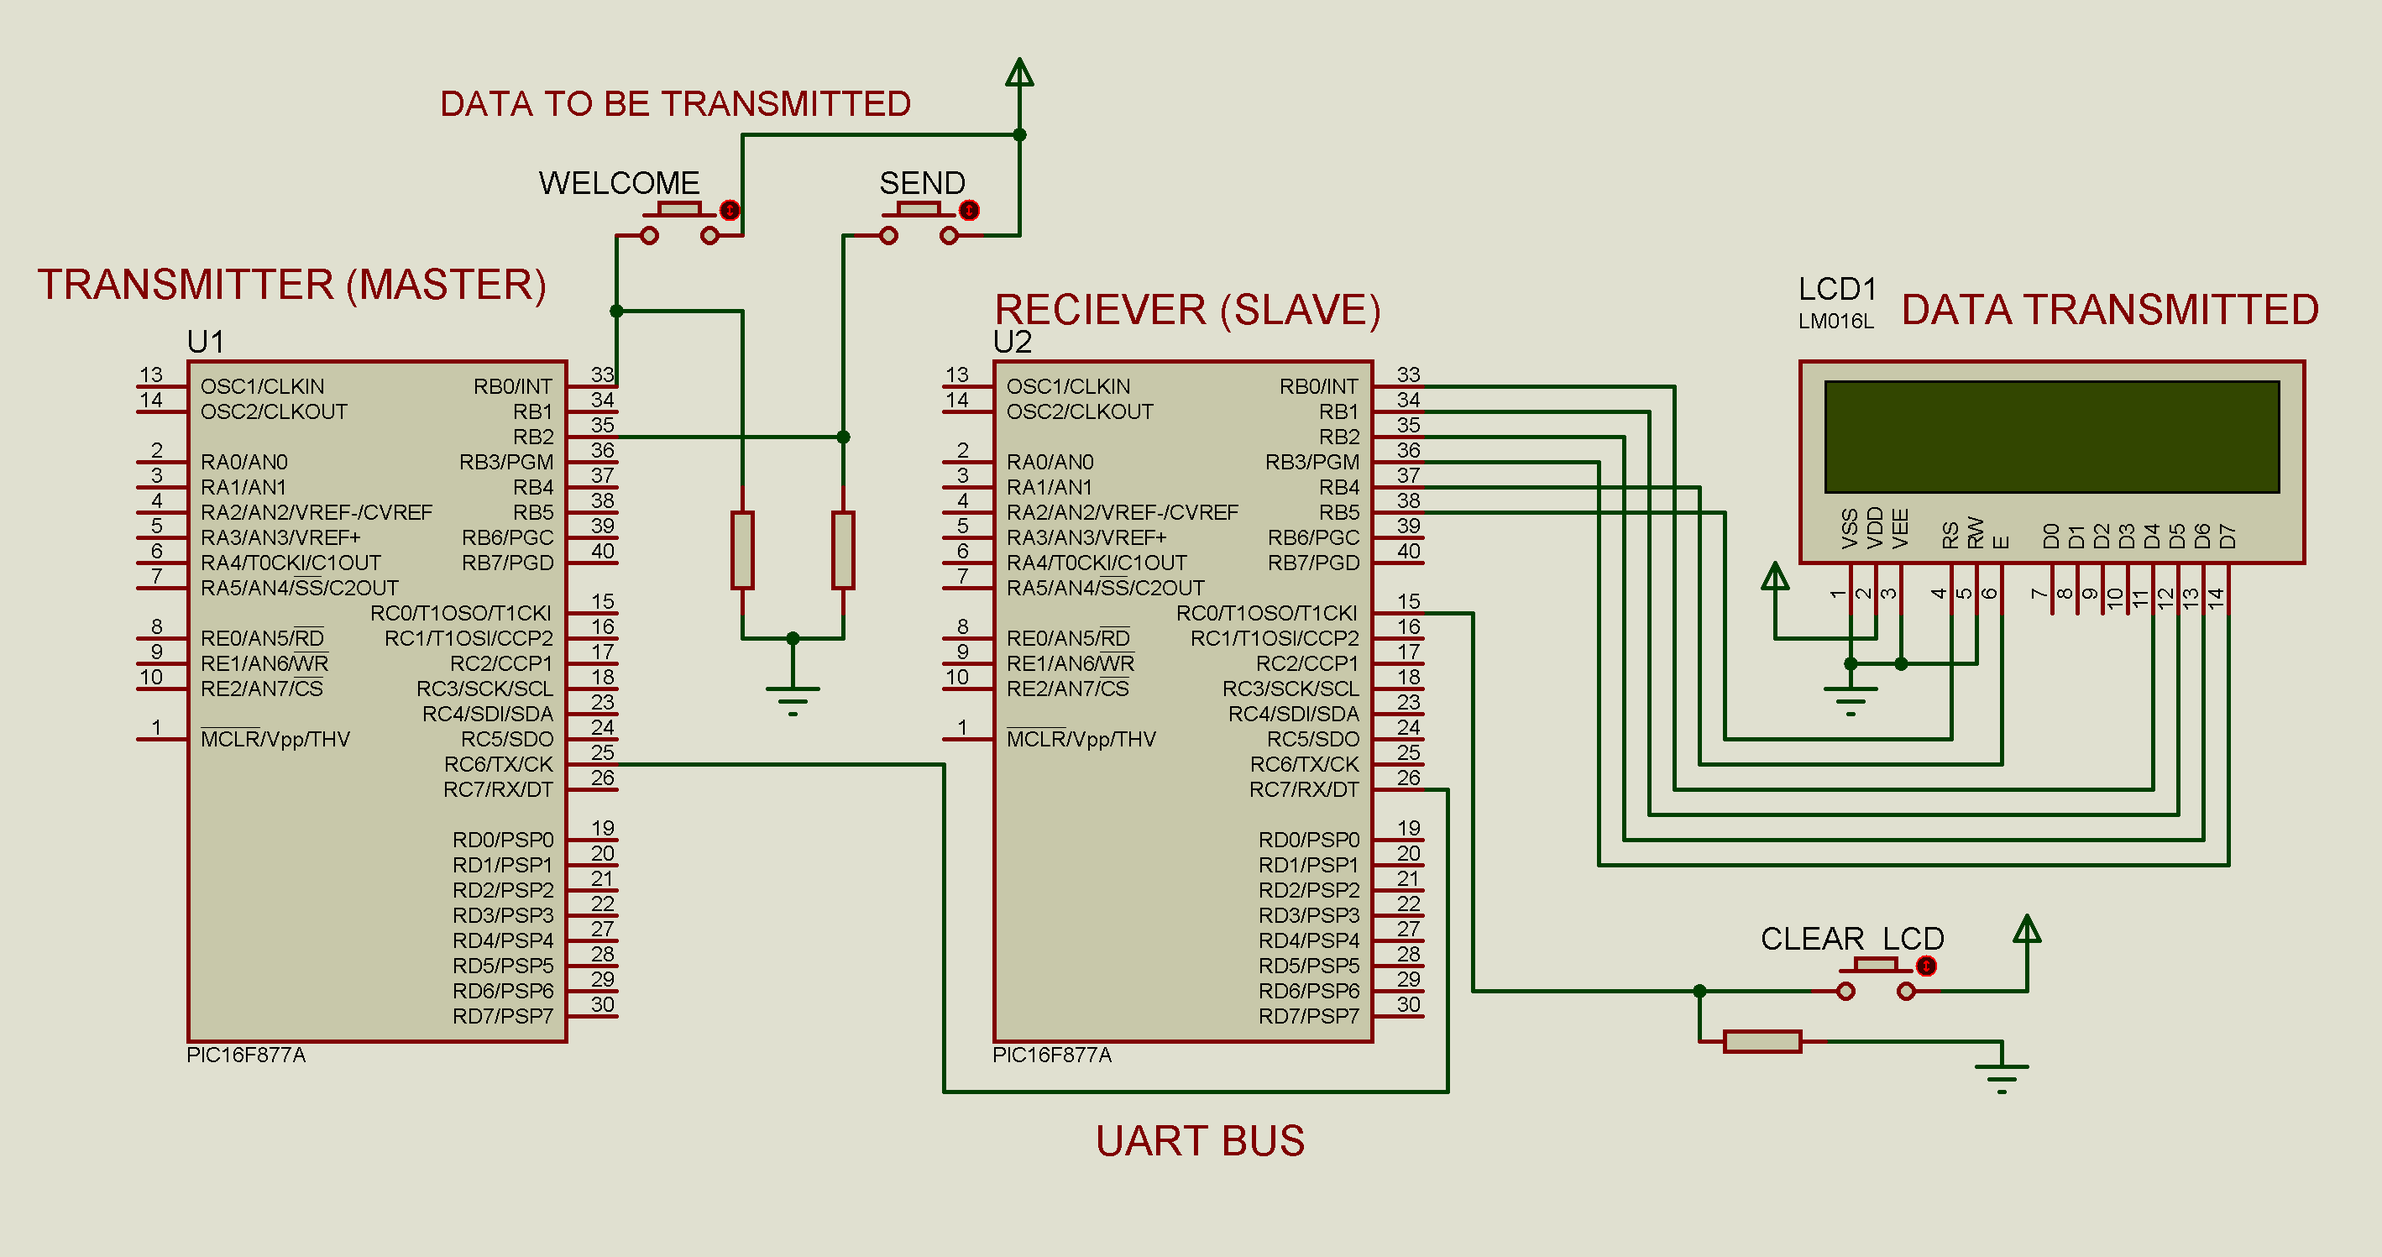
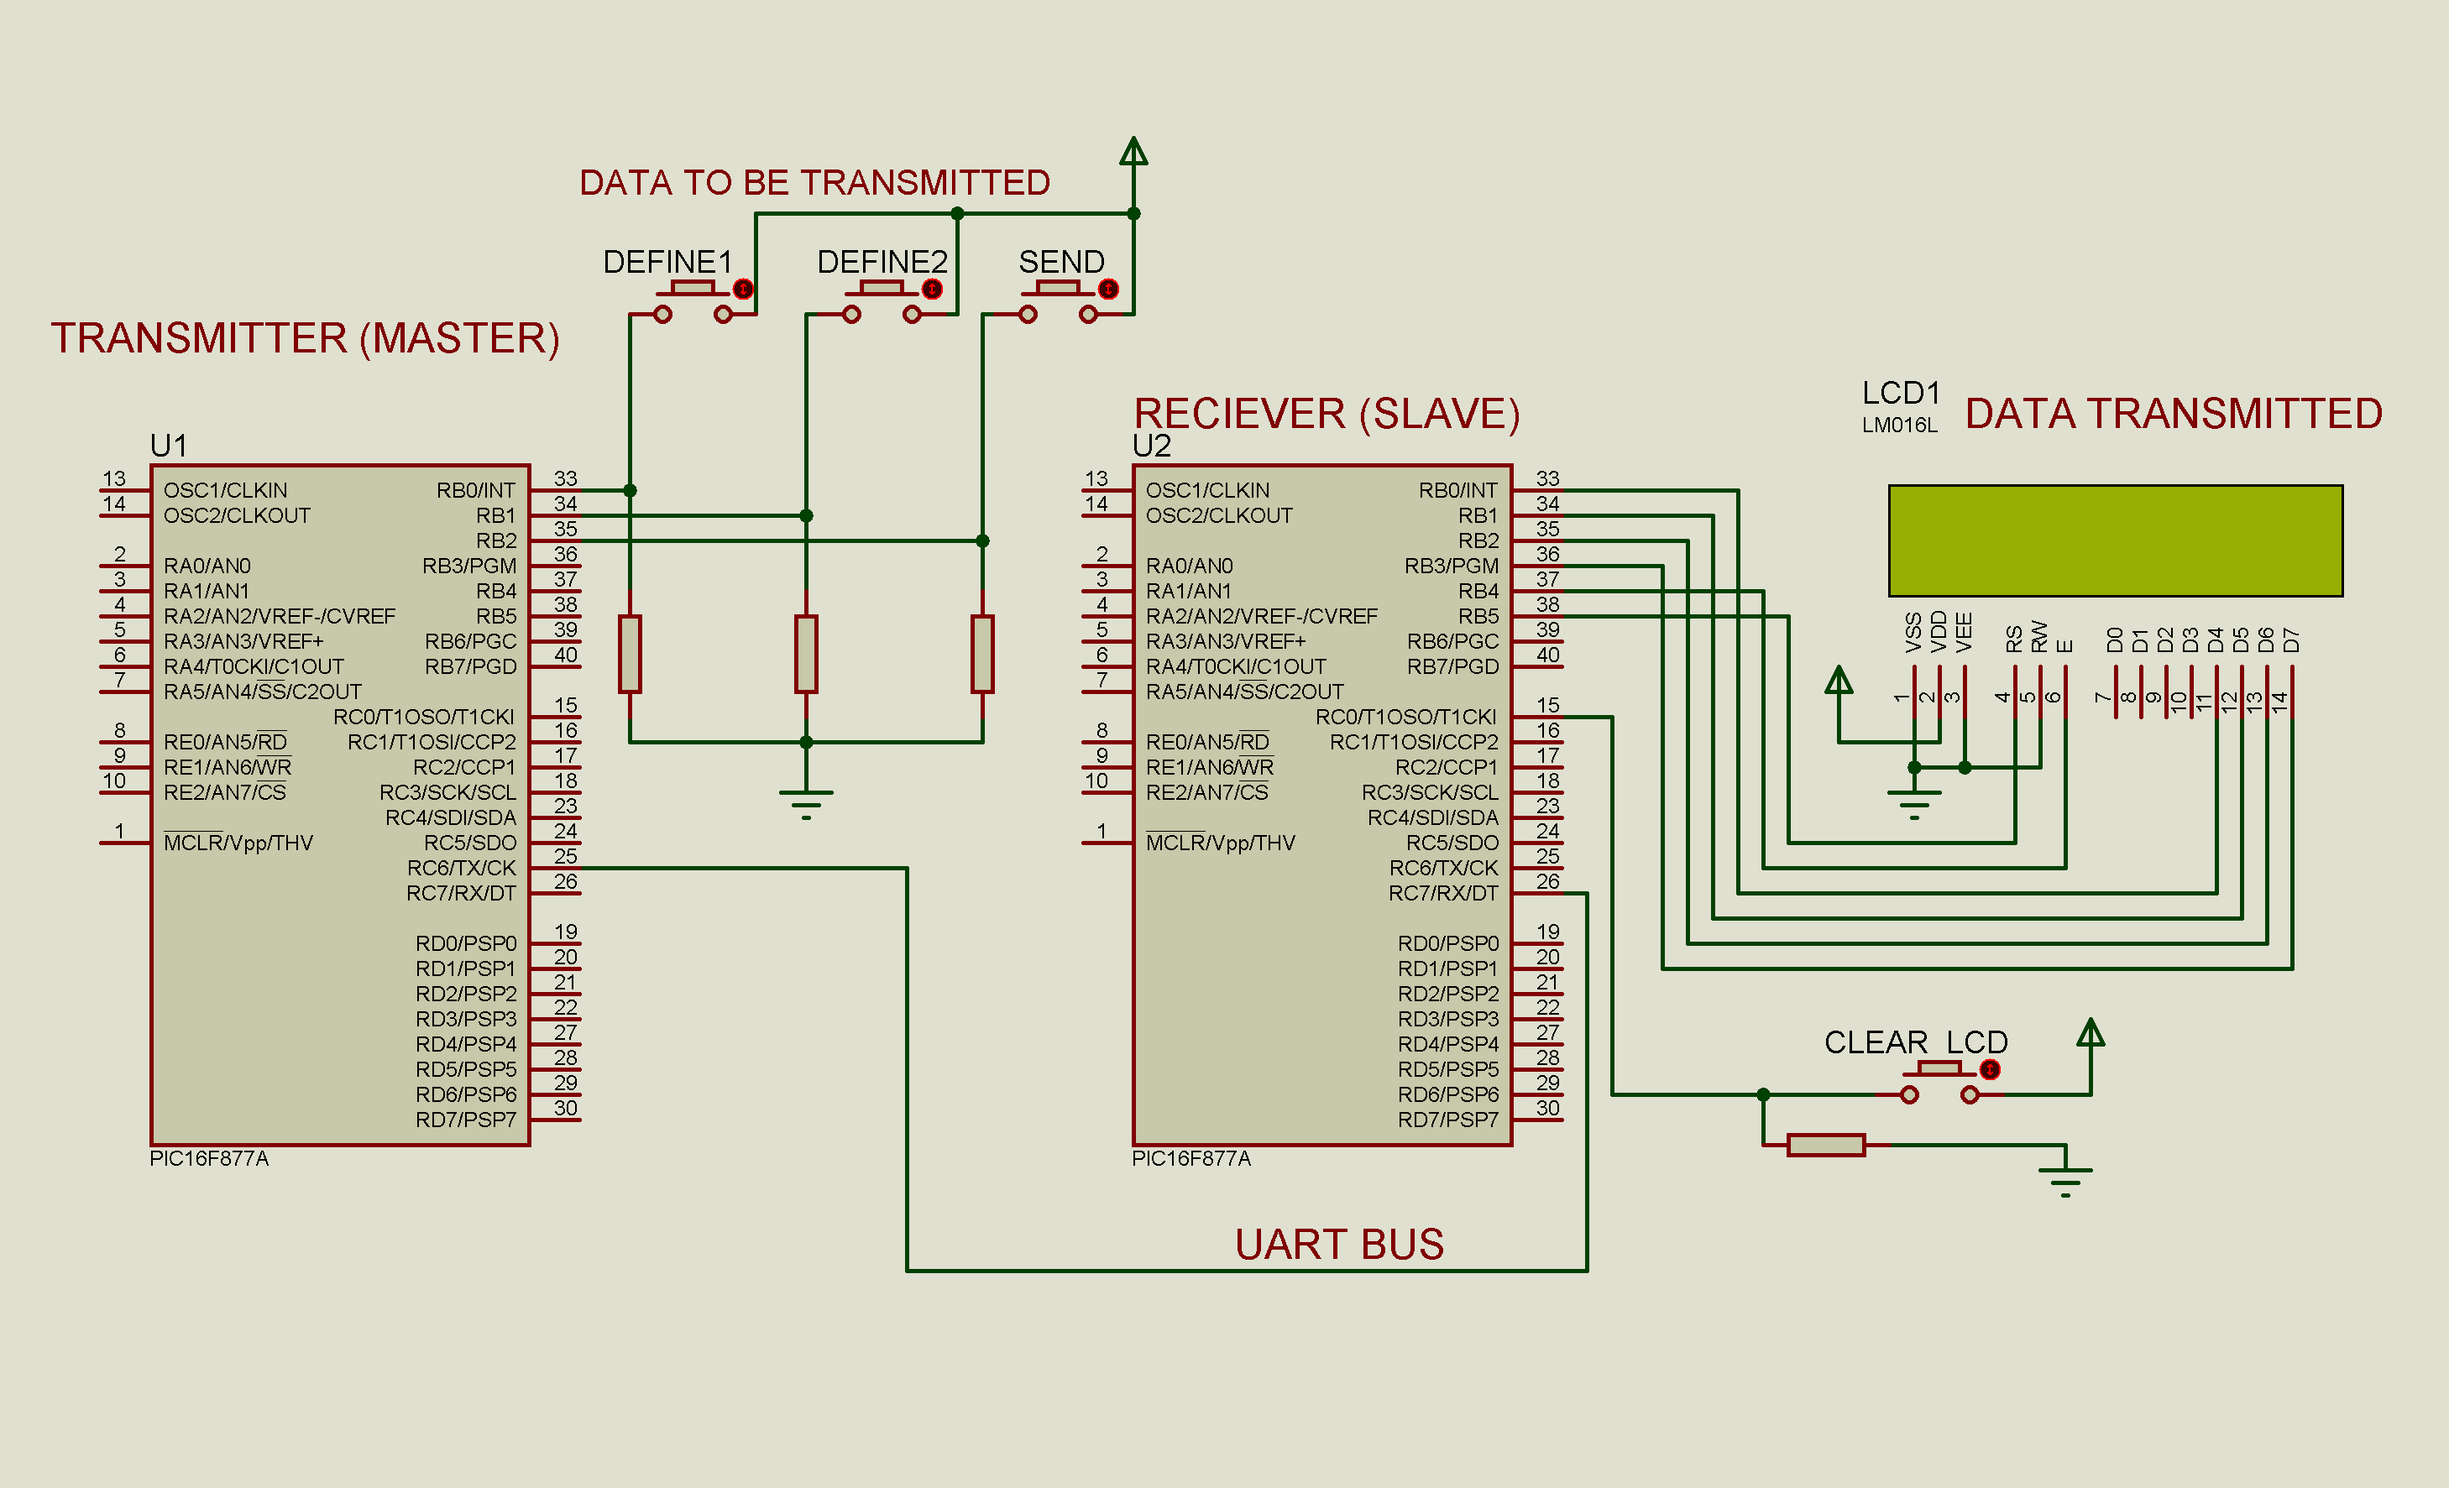
update README.md

Changed region(s): [[0.0, 0.0615, 0.9926, 0.9218], [0.8375, 0.8297, 0.8685, 0.8604]]

diff --git a/README.md b/README.md
@@ -209,10 +209,10 @@ Simulated in Proteus 8 Professional
 - Create a serial communication interface between 2 microcontrollers using UART Protocol and use it to send string messages and display it using an 16*2 LCD
 #### Components   
 - LCD
-- 3 Buttons
+- 4 Buttons
 #### Configuration
 -  Transmitter
-    -  RB0 & RB2 as input for buttons
+    -  RB0 , RB1 & RB2 as input for buttons
     -  RC6 as UART transmitter
 -  Reciever
     -  RB0-5 as output LCD
